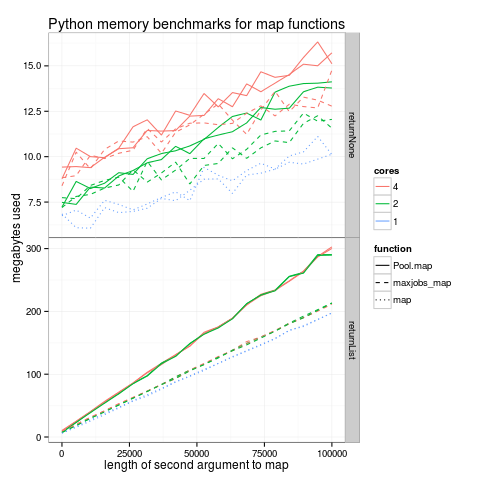
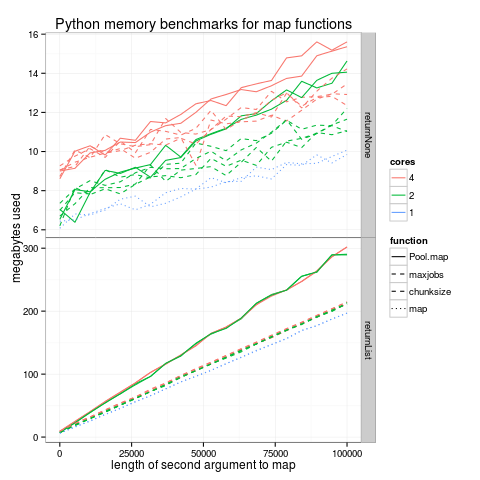
chunksize arg

diff --git a/multiprocess.py b/multiprocess.py
@@ -15,11 +15,12 @@ if __name__ == '__main__':
     width = int(sys.argv[1])
     height = int(sys.argv[2])
     cores_str = sys.argv[3]
-    no_maxjobs = cores_str.replace("maxjobs", "")
-    cores = int(no_maxjobs)
-    print(width, height, cores)
+    no_text = cores_str[:1]
+    only_text = cores_str[1:]
+    cores = int(no_text)
     p = Pool(cores)
     MAXJOBS=100
+    
     def maxjobs_map(f, items):
         first_i = 0
         result = []
@@ -29,13 +30,20 @@ if __name__ == '__main__':
             result += p.map(f, some_items)
             first_i += MAXJOBS
         return result
+    
+    def chunksize_map(f, items):
+        return p.map(f, items, MAXJOBS)
+    
     if cores == 1:
         MAP = map
     else:
         if "maxjobs" in cores_str:
             MAP = maxjobs_map
+        elif "chunksize" in cores_str:
+            MAP = chunksize_map
         else:
             MAP = p.map
+    print(width, height, cores, MAP)
     if height == 1:
         base_list = list(range(width))
         MAP(returnNone, base_list)
